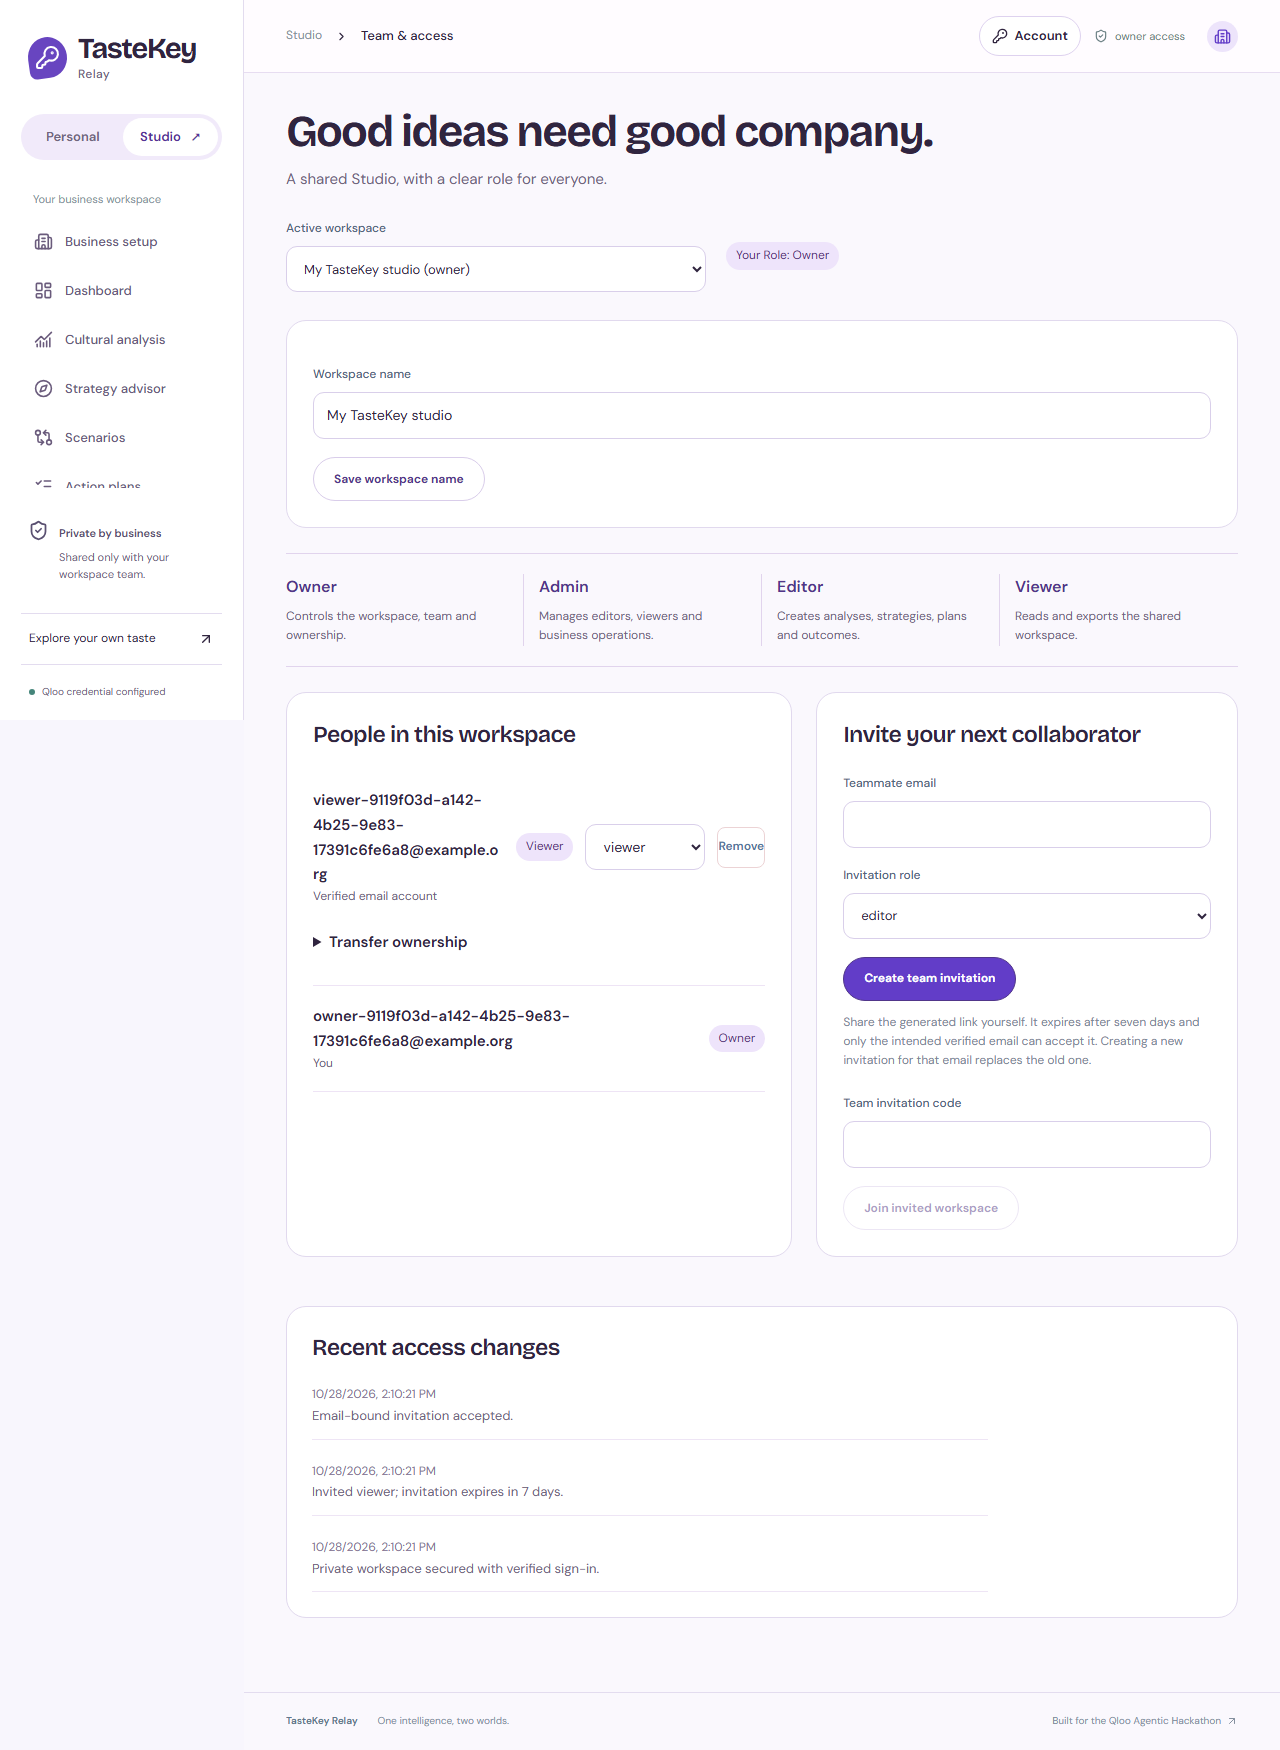
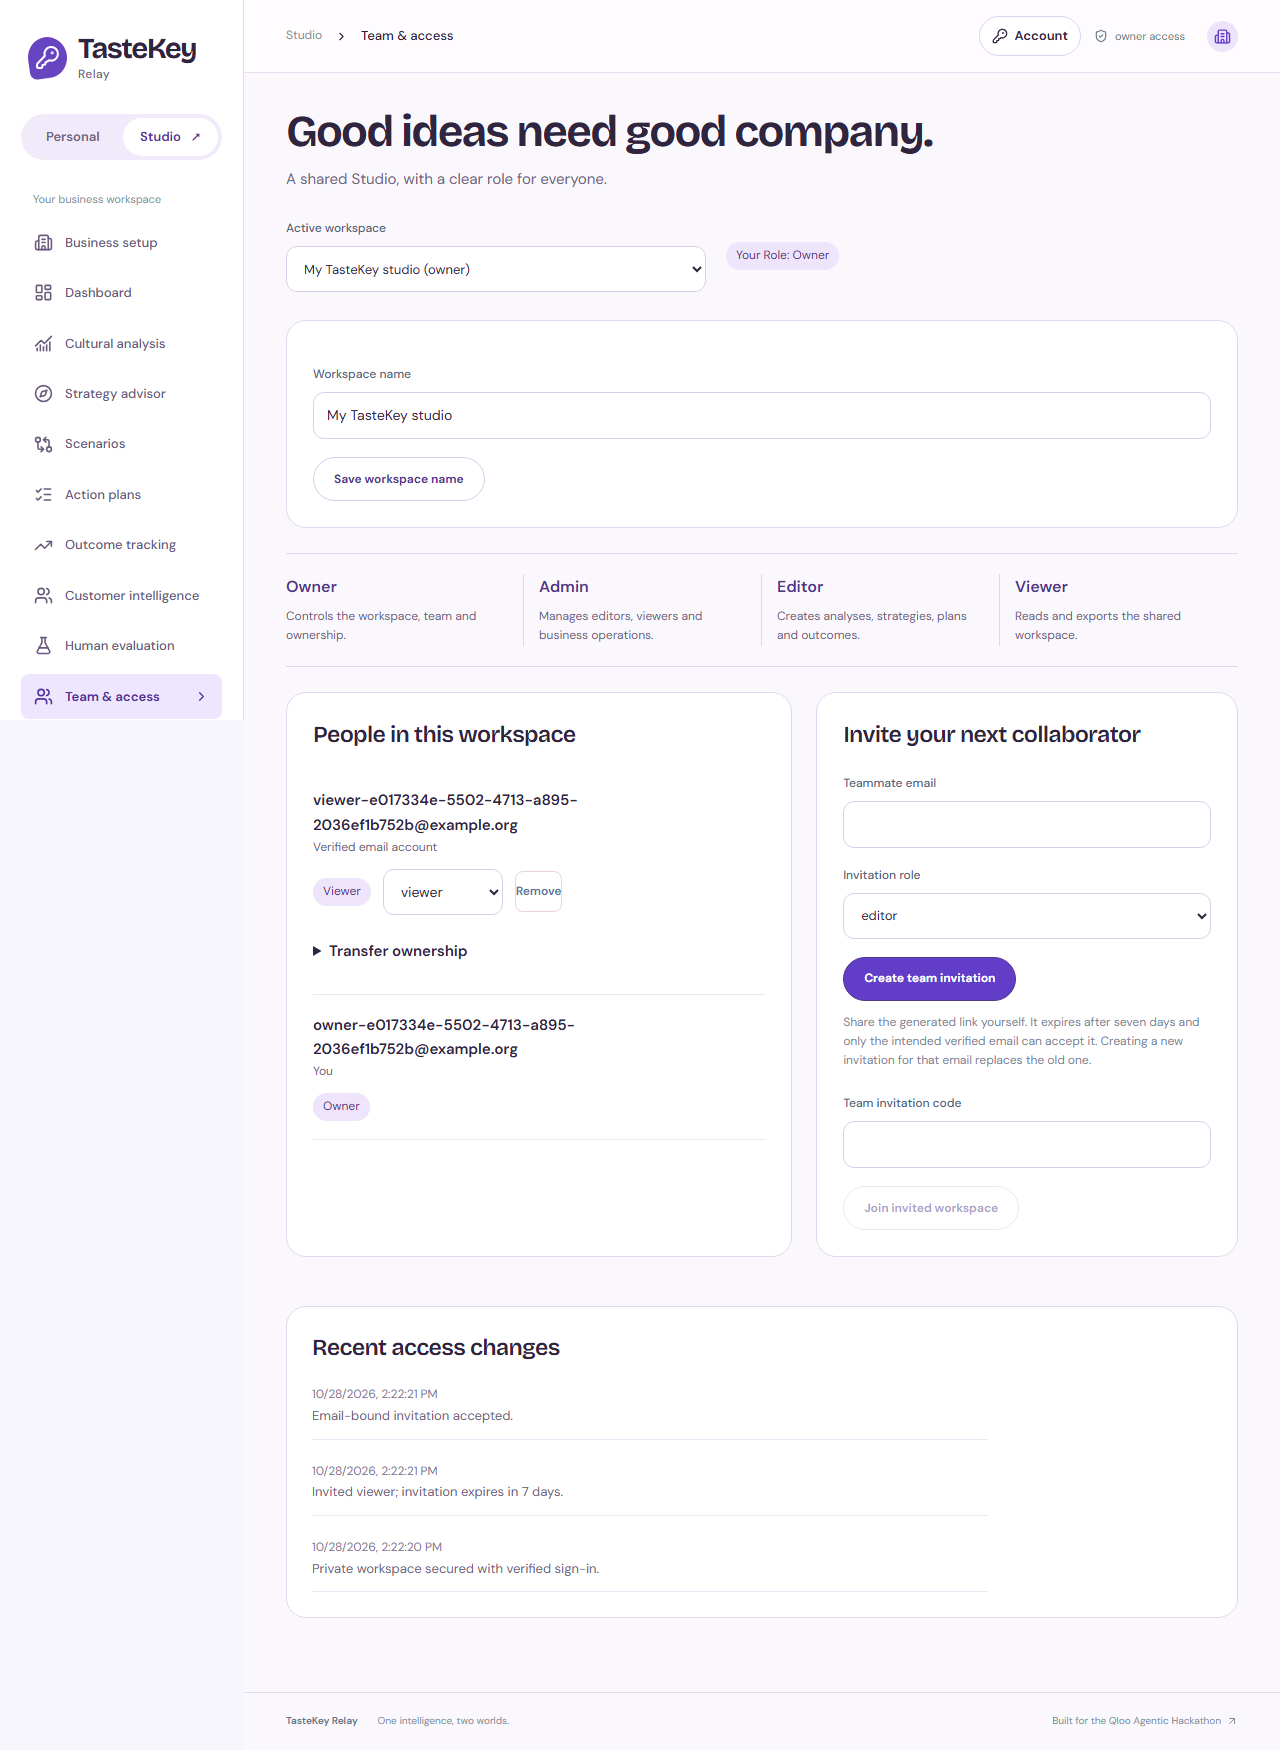
Clarify workspace ownership and disable unavailable role controls

diff --git a/apps/web/components/studio.tsx b/apps/web/components/studio.tsx
@@ -281,7 +281,10 @@ export default function Studio({
           save={(input) => mutate("review", input)}
         />
       ) : section === "audience" ? (
-        <AudienceOwner businessId={business.id} />
+        <AudienceOwner
+          businessId={business.id}
+          canInvite={!role || role === "owner" || role === "admin"}
+        />
       ) : (
         <PageTitle
           title="Page not found"
@@ -292,16 +295,16 @@ export default function Studio({
       {section === "dashboard" && (
         <section className="panel workspace-controls">
           <div>
-            <h3>Private session controls</h3>
+            <h3>Workspace data controls</h3>
             <p>
-              Business records are tied to this browser’s private cookie, which
-              expires in 30 days. Export records before clearing cookies; use a
-              recovery code to reopen them on another device. Full account login
-              and team roles are not implemented.
+              {role
+                ? "Records belong to your shared workspace. Sign in again to recover access. Only the owner can delete the workspace; deletion also removes team access. Save an export before deleting."
+                : "This private demo uses a browser cookie that expires in 30 days. Save an export and a recovery code before clearing cookies, or sign in to secure the workspace and add a team."}
             </p>
           </div>
           <button
             className="danger"
+            disabled={Boolean(role && role !== "owner")}
             onClick={async () => {
               if (
                 !window.confirm(

diff --git a/apps/web/components/delivery-controls.tsx b/apps/web/components/delivery-controls.tsx
@@ -276,7 +276,13 @@ type Report = {
   minimum: number;
   groups: { category: string; count: number }[];
 };
-export function AudienceOwner({ businessId }: { businessId: string }) {
+export function AudienceOwner({
+  businessId,
+  canInvite = true,
+}: {
+  businessId: string;
+  canInvite?: boolean;
+}) {
   const [report, setReport] = useState<Report>(),
     [invitation, setInvitation] = useState(""),
     [error, setError] = useState("");
@@ -309,6 +315,7 @@ export function AudienceOwner({ businessId }: { businessId: string }) {
       )}
       <button
         className="secondary"
+        disabled={!canInvite}
         onClick={async () => {
           try {
             setInvitation(
@@ -325,6 +332,12 @@ export function AudienceOwner({ businessId }: { businessId: string }) {
       >
         Create or replace audience invitation
       </button>
+      {!canInvite && (
+        <p className="microcopy">
+          An owner or admin can manage audience invitations. Your role can read
+          this report.
+        </p>
+      )}
       {invitation && (
         <div className="notice">
           <p>

diff --git a/tests/browser/identity.spec.ts b/tests/browser/identity.spec.ts
@@ -164,6 +164,18 @@ test("team UI and real server authorization enforce invitations, viewer writes a
   await reader.getByRole("button", { name: "Join invited workspace" }).click();
   await reader.waitForURL("**/studio/dashboard");
   await expect(reader.getByText(/You have viewer access/)).toBeVisible();
+  await expect(
+    reader.getByRole("button", { name: "Delete workspace", exact: true }),
+  ).toBeDisabled();
+  await reader.goto("/studio/audience");
+  await expect(
+    reader.getByRole("button", {
+      name: "Create or replace audience invitation",
+    }),
+  ).toBeDisabled();
+  await expect(
+    reader.getByText("Your role can read this report.", { exact: false }),
+  ).toBeVisible();
   const saved = await reader.request.get("/api/workspace");
   expect((await saved.json()).businesses[0].id).toBe(businessId);
   expect(

diff --git a/apps/web/app/api/[...path]/route.ts b/apps/web/app/api/[...path]/route.ts
@@ -87,7 +87,7 @@ async function route(request: NextRequest) {
       return response({
         qloo: await configured(),
         model: modelConfigured(),
-        storage: "SQLite; private browser session",
+        storage: "SQLite; verified workspaces and private demo sessions",
         version: "0.1.0",
         signIn: authConfigured(),
       });
